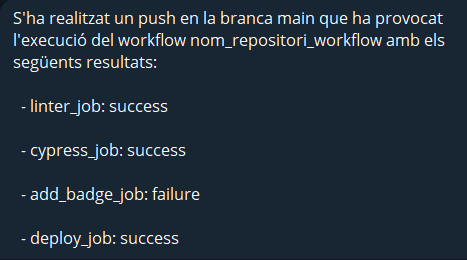
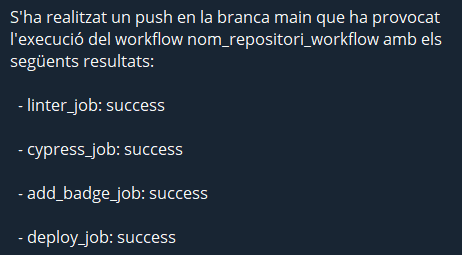
finalizando Readme y subida de imágenes

diff --git a/OldREADME.md b/OldREADME.md
@@ -259,6 +259,12 @@ A Telegram nos llega un mensaje con el resultado de los jobs:
 
 <img src="/assets/images/image41.png" width="500" />
 
+### Resultado de todos los jobs funcionando
+
+Una vez se ejecuta el workflow con todos los jobs correctamente, se ve así en GitHub:
+
+<img src="/assets/images/image42.png" width="500" />
+
 ## Personalización del repositorio con nuestro nombre para incluir estadísticas
 
 Para personalizar el repositorio personal de GitHub he creado un repositorio con el mismo nombre de usuario.
